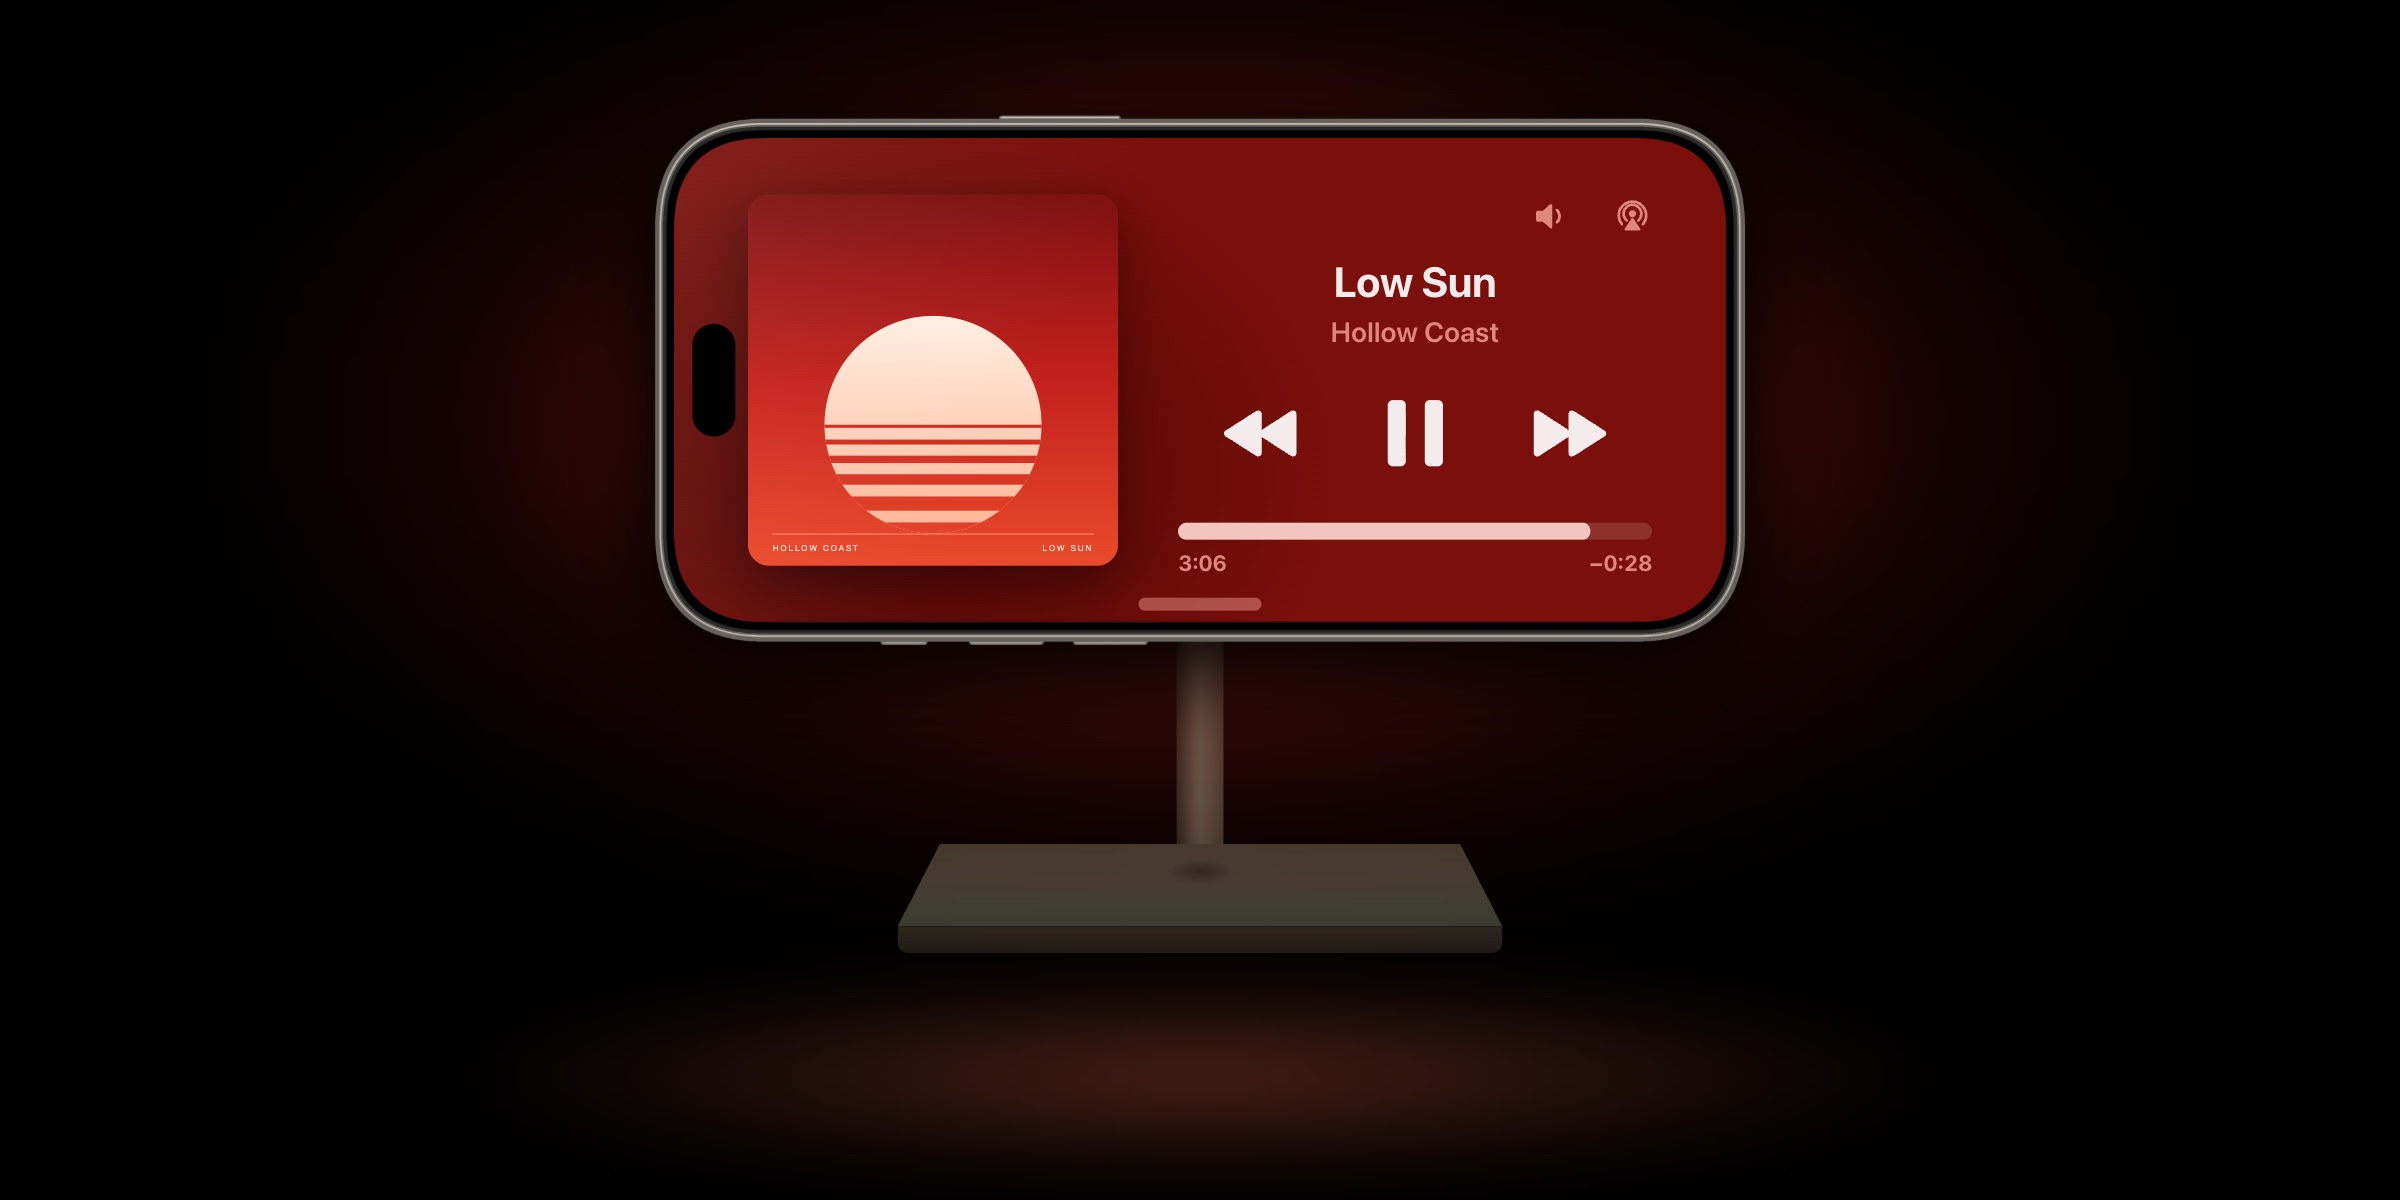
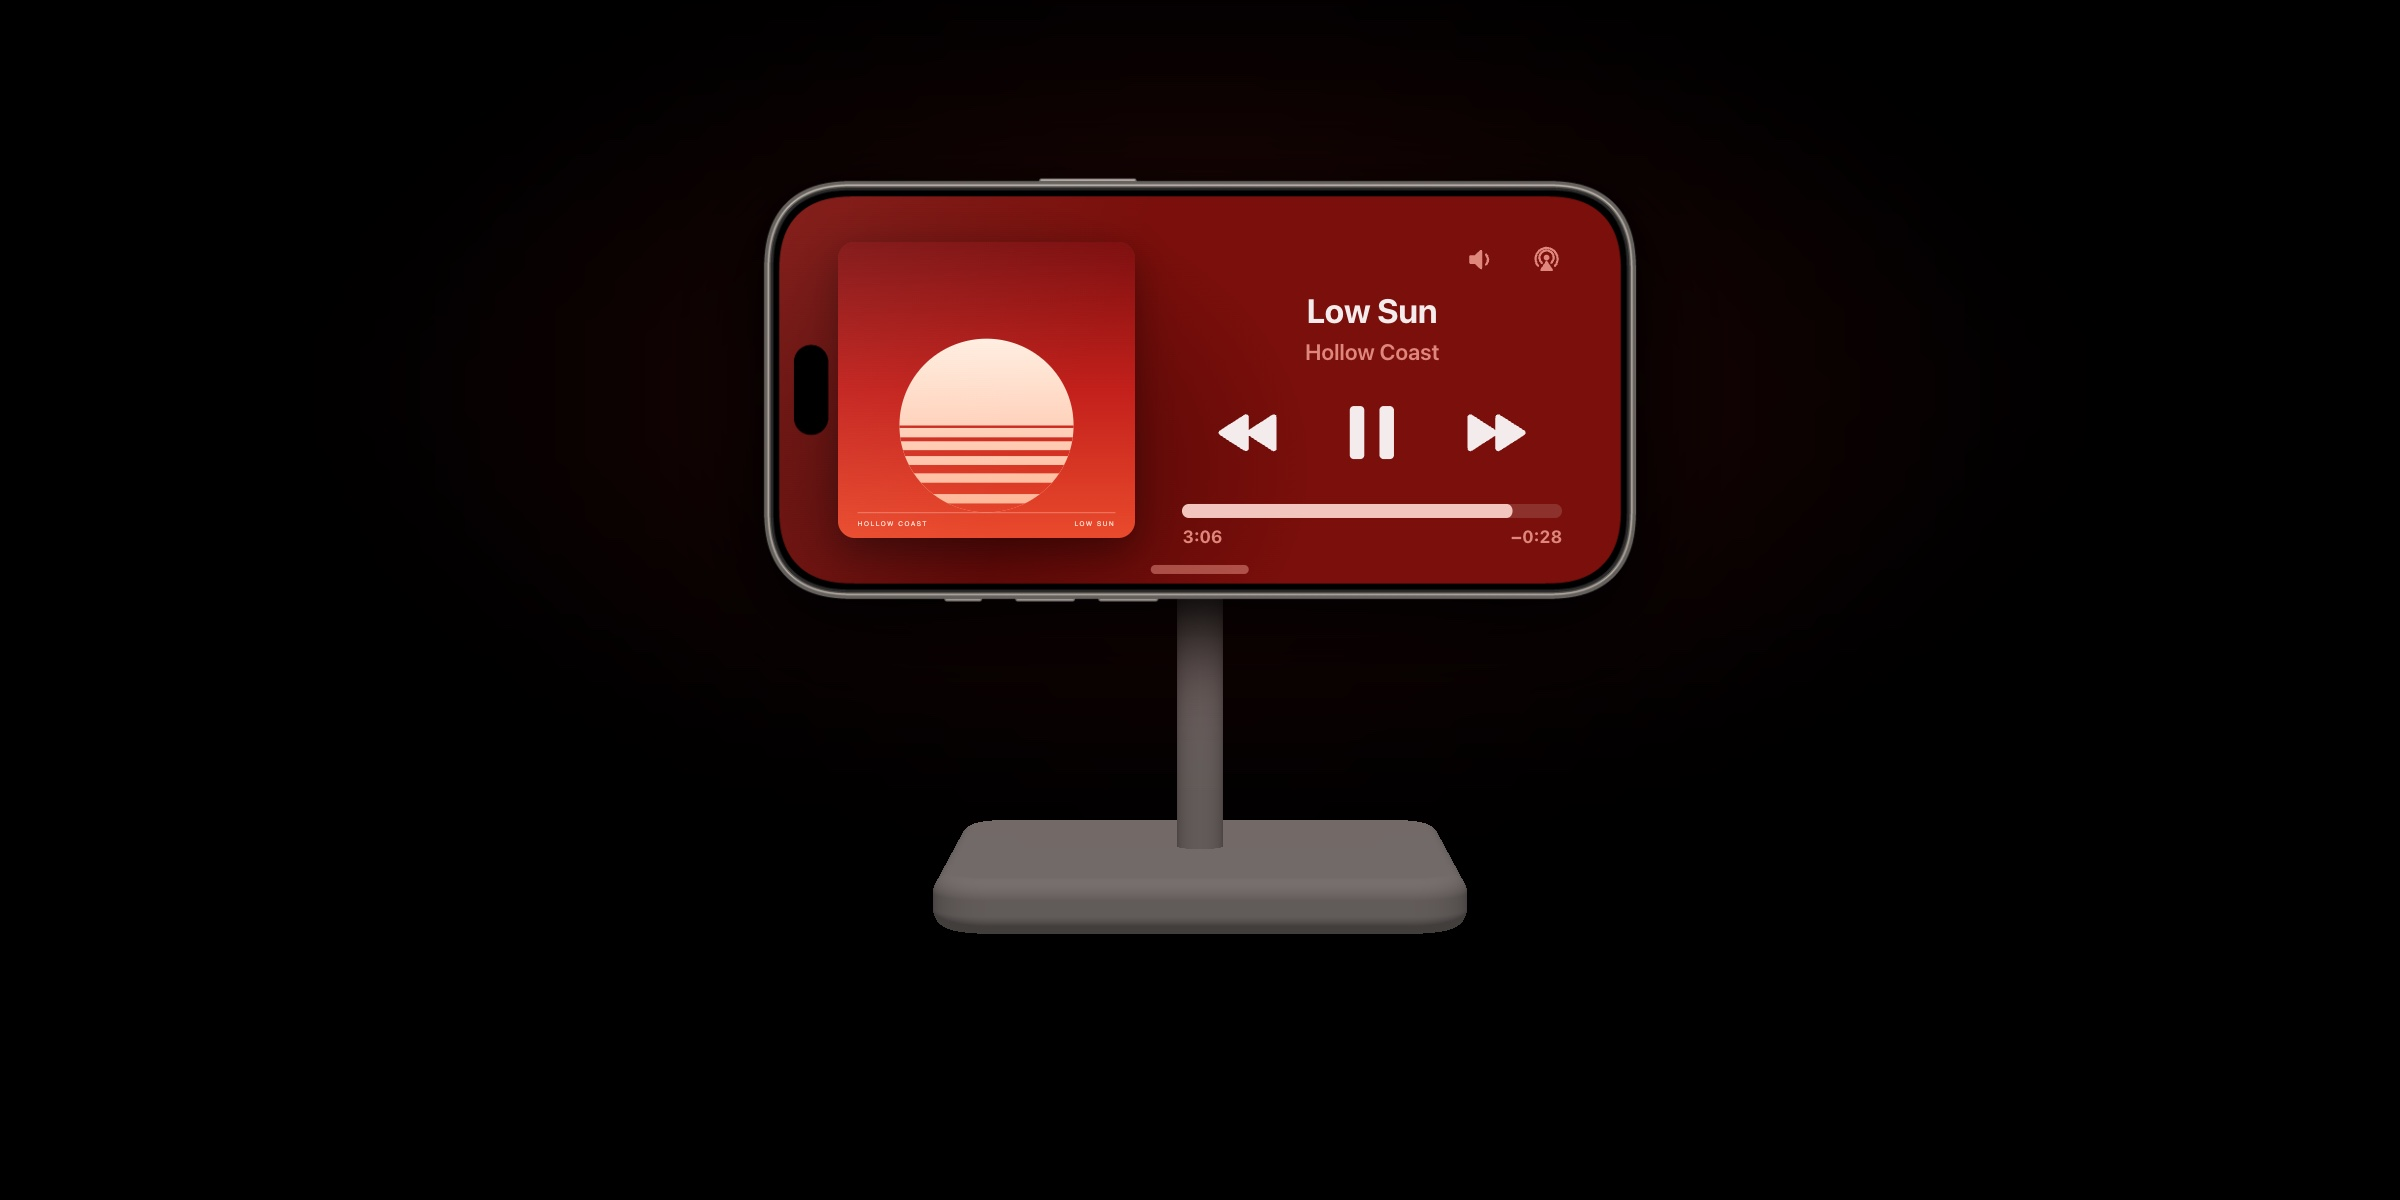
Home: the Second Chair slide's stand, rendered; phone and stand 20% smaller
The stand is ray-marched from Apple's StandBy photographs' proportions
(_docs/devices/stand.py), with plain, even light.

Changed region(s): [[0.2188, 0.0925, 0.7812, 0.8017], [0.2812, 0.8325, 0.7188, 0.9558], [0.5312, 0.2158, 0.625, 0.3083]]

diff --git a/second-chair/_docs/slide.html b/second-chair/_docs/slide.html
@@ -14,33 +14,18 @@
   html, body { margin: 0; width: 2000px; height: 1500px; overflow: hidden; background: #000; }
   .hero { position: relative; isolation: isolate; width: 2000px; height: 1500px; background: #000; overflow: hidden;
           --stage: #3a0806; --wall-a: #4a0907; --wall-b: #b81c17; }
-  .glow { position: absolute; left: 50%; top: 500px; width: 1500px; height: 760px; transform: translate(-50%, -50%);
-          background: radial-gradient(closest-side, rgba(236, 80, 46, .85), rgba(190, 34, 24, .5) 42%, rgba(120, 14, 10, .18) 72%, transparent);
+  .glow { position: absolute; left: 50%; top: 380px; width: 1300px; height: 640px; transform: translate(-50%, -50%);
+          background: radial-gradient(closest-side, rgba(200, 40, 28, .32), rgba(150, 22, 16, .12) 55%, transparent);
           filter: blur(60px); z-index: -2; }
-  .floor { position: absolute; left: 50%; top: 735px; width: 1100px; height: 160px; transform: translateX(-50%);
-           background: radial-gradient(closest-side, rgba(255, 110, 70, .3), transparent); filter: blur(30px); z-index: -2; }
-  .hero .hero-standby { position: absolute; left: 50%; top: 500px; width: 800px; transform: translate(-50%, -50%); right: auto; bottom: auto; margin: 0;
+  /* The charging stand: rendered by devices/stand.py on black, added with screen so black adds nothing. */
+  .stand { position: absolute; inset: 0; background: url("devices/stand-mobile.png") 0 0 / 100% 100% no-repeat; mix-blend-mode: screen; z-index: -1; }
+  .desktop .stand { background-image: url("devices/stand-desktop.png"); }
+  .hero .hero-standby { position: absolute; left: 50%; top: 380px; width: 640px; transform: translate(-50%, -50%); right: auto; bottom: auto; margin: 0;
           --phone-drop: drop-shadow(0 3cqw 5cqw rgba(0, 0, 0, .85)) drop-shadow(0 .8cqw 1.4cqw rgba(0, 0, 0, .6)); }
-  /* #desktop: the wider desktop crop (2400×1200), with a bigger phone right of the title. */
+  /* #desktop: the wider desktop crop (2400×1200), phone centred. */
   html.desktop, html.desktop body, .desktop .hero { width: 2400px; height: 1200px; }
-  .desktop .glow { left: 1200px; top: 420px; width: 2000px; height: 1000px; }
-  .desktop .floor { left: 1200px; top: 760px; width: 1500px; height: 200px; }
-  .desktop .hero .hero-standby { left: 1200px; top: 380px; width: 1100px; }
-  /* A MagSafe stand behind the phone, as in Apple's StandBy photographs, faded into the dark. Sized from the
-     phone's width (--pw) and placed from the phone's bottom edge (--pb) and centre (--cx). */
-  .stand { position: absolute; left: var(--cx); top: calc(var(--pb) - .06 * var(--pw)); width: calc(.55 * var(--pw)); transform: translateX(-50%);
-           z-index: -1; opacity: .42; -webkit-mask: linear-gradient(#000 35%, rgba(0,0,0,.55)); mask: linear-gradient(#000 35%, rgba(0,0,0,.55)); }
-  .stand .pole { margin: 0 auto; width: calc(.042 * var(--pw)); height: calc(.27 * var(--pw)); border-radius: calc(.012 * var(--pw)) calc(.012 * var(--pw)) 0 0;
-           background: linear-gradient(90deg, #6e625c, #d9cfc8 38%, #efe8e2 52%, #a99d96); }
-  .stand .top { height: calc(.075 * var(--pw)); margin-top: calc(-.03 * var(--pw)); clip-path: polygon(7% 0, 93% 0, 100% 100%, 0 100%);
-           background: linear-gradient(180deg, #b9aea7, #ece5df 70%, #f6f0ea); position: relative; }
-  .stand .top::after { content: ""; position: absolute; left: 50%; top: 18%; width: calc(.06 * var(--pw)); height: 30%; transform: translateX(-50%);
-           border-radius: 50%; background: radial-gradient(closest-side, rgba(0,0,0,.35), transparent); }
-  .stand .front { height: calc(.024 * var(--pw)); border-radius: 0 0 calc(.01 * var(--pw)) calc(.01 * var(--pw)); background: linear-gradient(180deg, #a59991, #7c706a); }
-  .stand > * { filter: sepia(.45) saturate(1.5) brightness(.9); }   /* lit by the red screen */
-  .hero { --pw: 800px; --cx: 1000px; --pb: 694px; }
-  .desktop .hero { --pw: 1100px; --cx: 1200px; --pb: 646px; }
-  .floor { top: calc(var(--pb) + .3 * var(--pw)) !important; }
+  .desktop .glow { left: 1200px; top: 390px; width: 1700px; height: 800px; }
+  .desktop .hero .hero-standby { left: 1200px; top: 390px; width: 880px; }
 </style>
 <script>if (location.hash === '#desktop') document.documentElement.classList.add('desktop');</script>
 </head><body>
@@ -61,7 +46,7 @@
   <symbol id="i-iphone-arrow" viewBox="0 0 24 24"><path d="M5.6 2h4.8C11.8 2 13 3.2 13 4.6v14.8c0 1.4-1.2 2.6-2.6 2.6H5.6C4.2 22 3 20.8 3 19.4V4.6C3 3.2 4.2 2 5.6 2zm0 1.6c-.6 0-1 .4-1 1v14.8c0 .6.4 1 1 1h4.8c.6 0 1-.4 1-1V4.6c0-.6-.4-1-1-1z"/><path d="M15.4 12h6m0 0-2.7-2.7m2.7 2.7-2.7 2.7" fill="none" stroke="currentColor" stroke-width="1.8" stroke-linecap="round" stroke-linejoin="round"/></symbol>
   <symbol id="i-iphone" viewBox="0 0 24 24"><path d="M8.6 2h6.8c1.4 0 2.4 1 2.4 2.4v15.2c0 1.4-1 2.4-2.4 2.4H8.6c-1.4 0-2.4-1-2.4-2.4V4.4C6.2 3 7.2 2 8.6 2zm0 1.6c-.5 0-.8.3-.8.8v15.2c0 .5.3.8.8.8h6.8c.5 0 .8-.3.8-.8V4.4c0-.5-.3-.8-.8-.8h-1.2c0 .5-.3.8-.8.8h-2.4c-.5 0-.8-.3-.8-.8z"/></symbol>
 </svg>
-<div class="hero"><div class="glow"></div><div class="floor"></div><div class="stand" aria-hidden="true"><div class="pole"></div><div class="top"></div><div class="front"></div></div>
+<div class="hero"><div class="glow"></div><div class="stand"></div>
 <!-- The iPhone, in StandBy -->
         <div class="phone phone--landscape hero-phone hero-standby" data-surface="iphone">
           

diff --git a/second-chair/_docs/devices/stand.py b/second-chair/_docs/devices/stand.py
@@ -1,0 +1,166 @@
+"""A MagSafe charging stand under the StandBy phone, for the home page slide (_docs/slide.html).
+
+Rendered, not drawn: a rounded-square base and a round pole, ray-marched as signed distance fields and lit by
+the phone's own screen (a red rectangle facing the camera) plus a faint fill from above, standing on a dark table
+that catches the screen's light and the base's soft shadow. Proportions are taken from Apple's StandBy
+photographs: base about 0.58 of the phone's width, 9 mm thick with soft edges and ~10 mm corners; pole 8 mm,
+about 43 mm visible below the phone; the camera level with the phone, about 630 mm away, which shows the base's
+top face at the depth the photographs do.
+
+Units are millimetres. x right, y up, z towards the camera; the phone's centre is the origin, its front glass at
+z = +4. Lighting is deliberately plain (a soft key from above, a little ambient, a hint of the screen's warmth) so it
+doesn't read as a render. The output is RGB on black, composited in the page with mix-blend-mode: screen, so black adds nothing.
+
+    python3 stand.py desktop   # 2400x1200, phone 880 px wide, centred at (1200, 390)
+    python3 stand.py mobile    # 2000x1500, phone 640 px wide, centred at (1000, 380)
+"""
+import sys
+import numpy as np
+from PIL import Image
+
+PHONE_W, PHONE_H = 151.40, 73.30                 # iPhone 18 Pro, landscape, mm
+SCREEN_HW, SCREEN_HH, SCREEN_Z = 72.4, 33.3, 4.1  # the lit display
+POLE_R = 4.0
+BASE_HALF, BASE_T, BASE_CR, BASE_FILLET = 44.0, 9.0, 10.0, 3.2
+BASE_TOP = -(PHONE_H / 2 + 43.0)                 # 43 mm of pole below the phone
+BASE_Z = -8.0                                    # the pole stands just behind the phone, near the base's centre
+POLE_Z = -9.0
+TABLE_Y = BASE_TOP - BASE_T
+CAM_D = 630.0
+
+LAYOUTS = {
+    'desktop': dict(size=(2400, 1200), phone_px=880, centre=(1200, 390)),
+    'mobile':  dict(size=(2000, 1500), phone_px=640,  centre=(1000, 380)),
+}
+
+
+def sd_base(p):
+    """Rounded square slab: corner radius in plan, soft fillet on every edge."""
+    x, y, z = p[..., 0], p[..., 1], p[..., 2] - BASE_Z
+    yc = y - (BASE_TOP - BASE_T / 2)
+    # plan: rounded square, shrunk by the fillet
+    r = BASE_CR
+    qx = np.abs(x) - (BASE_HALF - r)
+    qz = np.abs(z) - (BASE_HALF - r)
+    d2 = np.hypot(np.maximum(qx, 0), np.maximum(qz, 0)) + np.minimum(np.maximum(qx, qz), 0) - r
+    # extrude with rounded edges
+    f = BASE_FILLET
+    wx = d2 + f
+    wy = np.abs(yc) - (BASE_T / 2 - f)
+    return np.hypot(np.maximum(wx, 0), np.maximum(wy, 0)) + np.minimum(np.maximum(wx, wy), 0) - f
+
+
+def sd_pole(p):
+    x, y, z = p[..., 0], p[..., 1], p[..., 2] - POLE_Z
+    d = np.hypot(x, z) - POLE_R
+    top, bot = 0.0, BASE_TOP - 1
+    h = np.maximum(y - top, bot - y)
+    return np.hypot(np.maximum(d, 0), np.maximum(h, 0)) + np.minimum(np.maximum(d, h), 0)
+
+
+def sd_scene(p):
+    return np.minimum(sd_base(p), sd_pole(p))
+
+
+def normals(p):
+    e = 0.05
+    n = np.stack([
+        sd_scene(p + [e, 0, 0]) - sd_scene(p - [e, 0, 0]),
+        sd_scene(p + [0, e, 0]) - sd_scene(p - [0, e, 0]),
+        sd_scene(p + [0, 0, e]) - sd_scene(p - [0, 0, e]),
+    ], -1)
+    return n / np.linalg.norm(n, axis=-1, keepdims=True)
+
+
+# The screen as an area light: a grid of samples, red like the StandBy UI, brighter where the artwork is.
+SCREEN_COL = np.array([0.78, 0.13, 0.08])
+gx, gy = np.meshgrid(np.linspace(-SCREEN_HW, SCREEN_HW, 16), np.linspace(-SCREEN_HH, SCREEN_HH, 8))
+SAMPLES = np.stack([gx.ravel(), gy.ravel(), np.full(gx.size, SCREEN_Z)], -1)
+SAMPLE_W = np.where(SAMPLES[:, 0] < -10, 1.5, 1.0)   # the artwork on the left is the brightest part
+SAMPLE_W = SAMPLE_W / SAMPLE_W.sum()
+SCREEN_AREA = 4 * SCREEN_HW * SCREEN_HH
+
+
+def screen_light(p, n, occluded=None):
+    """Irradiance from the screen at points p with normals n (one-sided: the screen lights only what's in front)."""
+    out = np.zeros(p.shape[:-1])
+    for q, w in zip(SAMPLES, SAMPLE_W):
+        v = q - p
+        r2 = np.sum(v * v, -1)
+        r = np.sqrt(r2)
+        cos_e = -v[..., 2] / r            # emission along +z
+        cos_r = np.sum(n * v, -1) / r
+        c = np.clip(cos_e, 0, None) * np.clip(cos_r, 0, None) / r2
+        if occluded is not None:
+            c = c * ~occluded(p, q)
+        out += w * c
+    return out * SCREEN_AREA / np.pi
+
+
+def base_blocks(p, q):
+    """Whether the segment p→q passes through the base's bounding slab (for the table's shadow)."""
+    d = q - p
+    lo = np.array([-BASE_HALF, TABLE_Y, BASE_Z - BASE_HALF])
+    hi = np.array([BASE_HALF, BASE_TOP, BASE_Z + BASE_HALF])
+    with np.errstate(divide='ignore', invalid='ignore'):
+        t1 = (lo - p) / d
+        t2 = (hi - p) / d
+    tmin = np.nanmax(np.minimum(t1, t2), -1)
+    tmax = np.nanmin(np.maximum(t1, t2), -1)
+    return (tmax > np.maximum(tmin, 1e-4)) & (tmin < 1)
+
+
+def render(layout):
+    L = LAYOUTS[layout]
+    W, H = L['size']
+    s = L['phone_px'] / PHONE_W                  # px per mm at the phone's plane
+    f = s * CAM_D
+    cx, cy = L['centre']
+    cam = np.array([0.0, 0.0, CAM_D])
+    ys, xs = np.mgrid[0:H, 0:W].astype(float)
+    dirs = np.stack([(xs + .5 - cx) / f, -(ys + .5 - cy) / f, -np.ones_like(xs)], -1)
+    dirs /= np.linalg.norm(dirs, axis=-1, keepdims=True)
+    img = np.zeros((H, W, 3))
+
+    # The stand: sphere-traced only inside its bounding box on screen.
+    def proj(x, y, z):
+        return cx + f * x / (CAM_D - z), cy - f * y / (CAM_D - z)
+    corners = [proj(x, y, z) for x in (-BASE_HALF - 2, BASE_HALF + 2) for y in (0, TABLE_Y - 2)
+               for z in (BASE_Z - BASE_HALF - 2, BASE_Z + BASE_HALF + 2)]
+    x0, x1 = int(min(c[0] for c in corners)) - 2, int(max(c[0] for c in corners)) + 3
+    y0, y1 = int(min(c[1] for c in corners)) - 2, int(max(c[1] for c in corners)) + 3
+    sub = dirs[y0:y1, x0:x1]
+    tt = np.full(sub.shape[:-1], CAM_D - 200.0)
+    alive = np.ones(sub.shape[:-1], bool)
+    hit = np.zeros(sub.shape[:-1], bool)
+    for _ in range(160):
+        p = cam + sub * tt[..., None]
+        d = sd_scene(p)
+        newly = alive & (d < 0.01)
+        hit |= newly
+        alive &= ~newly & (tt < CAM_D + 300)
+        tt = np.where(alive, tt + d, tt)
+        if not alive.any():
+            break
+    p = cam + sub[hit] * tt[hit][:, None]
+    n = normals(p)
+    # Plain, even light: a soft key from above and in front, and a little ambient. A white stand in a dim room,
+    # faintly warm from the screen, with no coloured bands or highlights.
+    albedo = 0.85
+    key_dir = np.array([0.0, 0.86, 0.5]); key_dir /= np.linalg.norm(key_dir)
+    key = 0.16 * np.clip(np.sum(n * key_dir, -1), 0, 1)
+    amb = 0.06
+    col = albedo * (key + amb)[:, None] * np.array([1.0, 0.86, 0.82])
+    patch = img[y0:y1, x0:x1]
+    patch[hit] = col
+    # A soft contact shadow where the base meets the table.
+    img[y0:y1, x0:x1] = patch
+
+    out = np.clip(img, 0, 1) ** (1 / 2.2)
+    return Image.fromarray((out * 255 + .5).astype(np.uint8))
+
+
+if __name__ == '__main__':
+    layout = sys.argv[1] if len(sys.argv) > 1 else 'desktop'
+    render(layout).save(f'stand-{layout}.png')
+    print('wrote', f'stand-{layout}.png')
